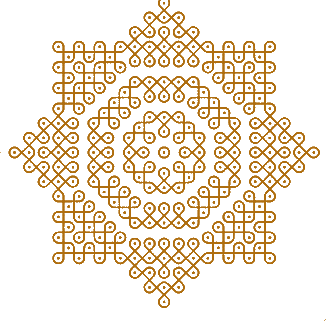
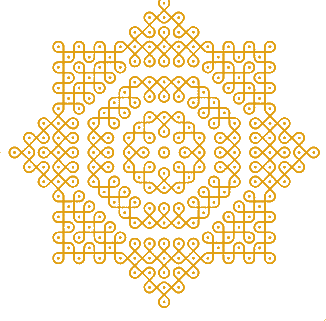
style: lighten kolam color and decrease rotation speed to 240s

Changed region(s): [[0.0307, 0.0, 0.9816, 0.9657], [0.9816, 0.9969, 1.0, 1.0]]

diff --git a/src/components/EditorialHero.tsx b/src/components/EditorialHero.tsx
@@ -483,11 +483,11 @@ export const EditorialHero: React.FC<EditorialHeroProps> = ({ navigate }) => {
           transform: translateY(-4px) scale(1.015);
         }
 
-        /* ── AUTHENTIC KOLAM ART IN BACKGROUND BEHIND MOBILE (SLIGHTLY LEFT & LESS DARK) ── */
+        /* ── AUTHENTIC KOLAM ART IN BACKGROUND BEHIND MOBILE (LIGHTER & SLOWER ROTATION) ── */
         .hero-kolam-art-bg {
           position: absolute;
           top: 36%;
-          left: 48%; /* Moved slightly to the left as requested */
+          left: 48%; /* Positioned slightly to the left */
           transform: translate(-50%, -50%);
           width: 580px;
           height: 580px;
@@ -497,8 +497,8 @@ export const EditorialHero: React.FC<EditorialHeroProps> = ({ navigate }) => {
           display: flex;
           align-items: center;
           justify-content: center;
-          opacity: 0.78; /* Less dark, soft warm golden aesthetic */
-          animation: slowSpinKolam 120s linear infinite;
+          opacity: 0.60; /* Lighter, subtle warm golden presence */
+          animation: slowSpinKolam 240s linear infinite; /* Much slower, calming rotation */
         }
 
         @keyframes slowSpinKolam {
@@ -510,7 +510,7 @@ export const EditorialHero: React.FC<EditorialHeroProps> = ({ navigate }) => {
           width: 100%;
           height: 100%;
           object-fit: contain;
-          filter: drop-shadow(0 4px 16px rgba(215, 145, 20, 0.3));
+          filter: drop-shadow(0 4px 16px rgba(225, 160, 20, 0.22));
         }
 
         .hero-phone-ambient-glow {
